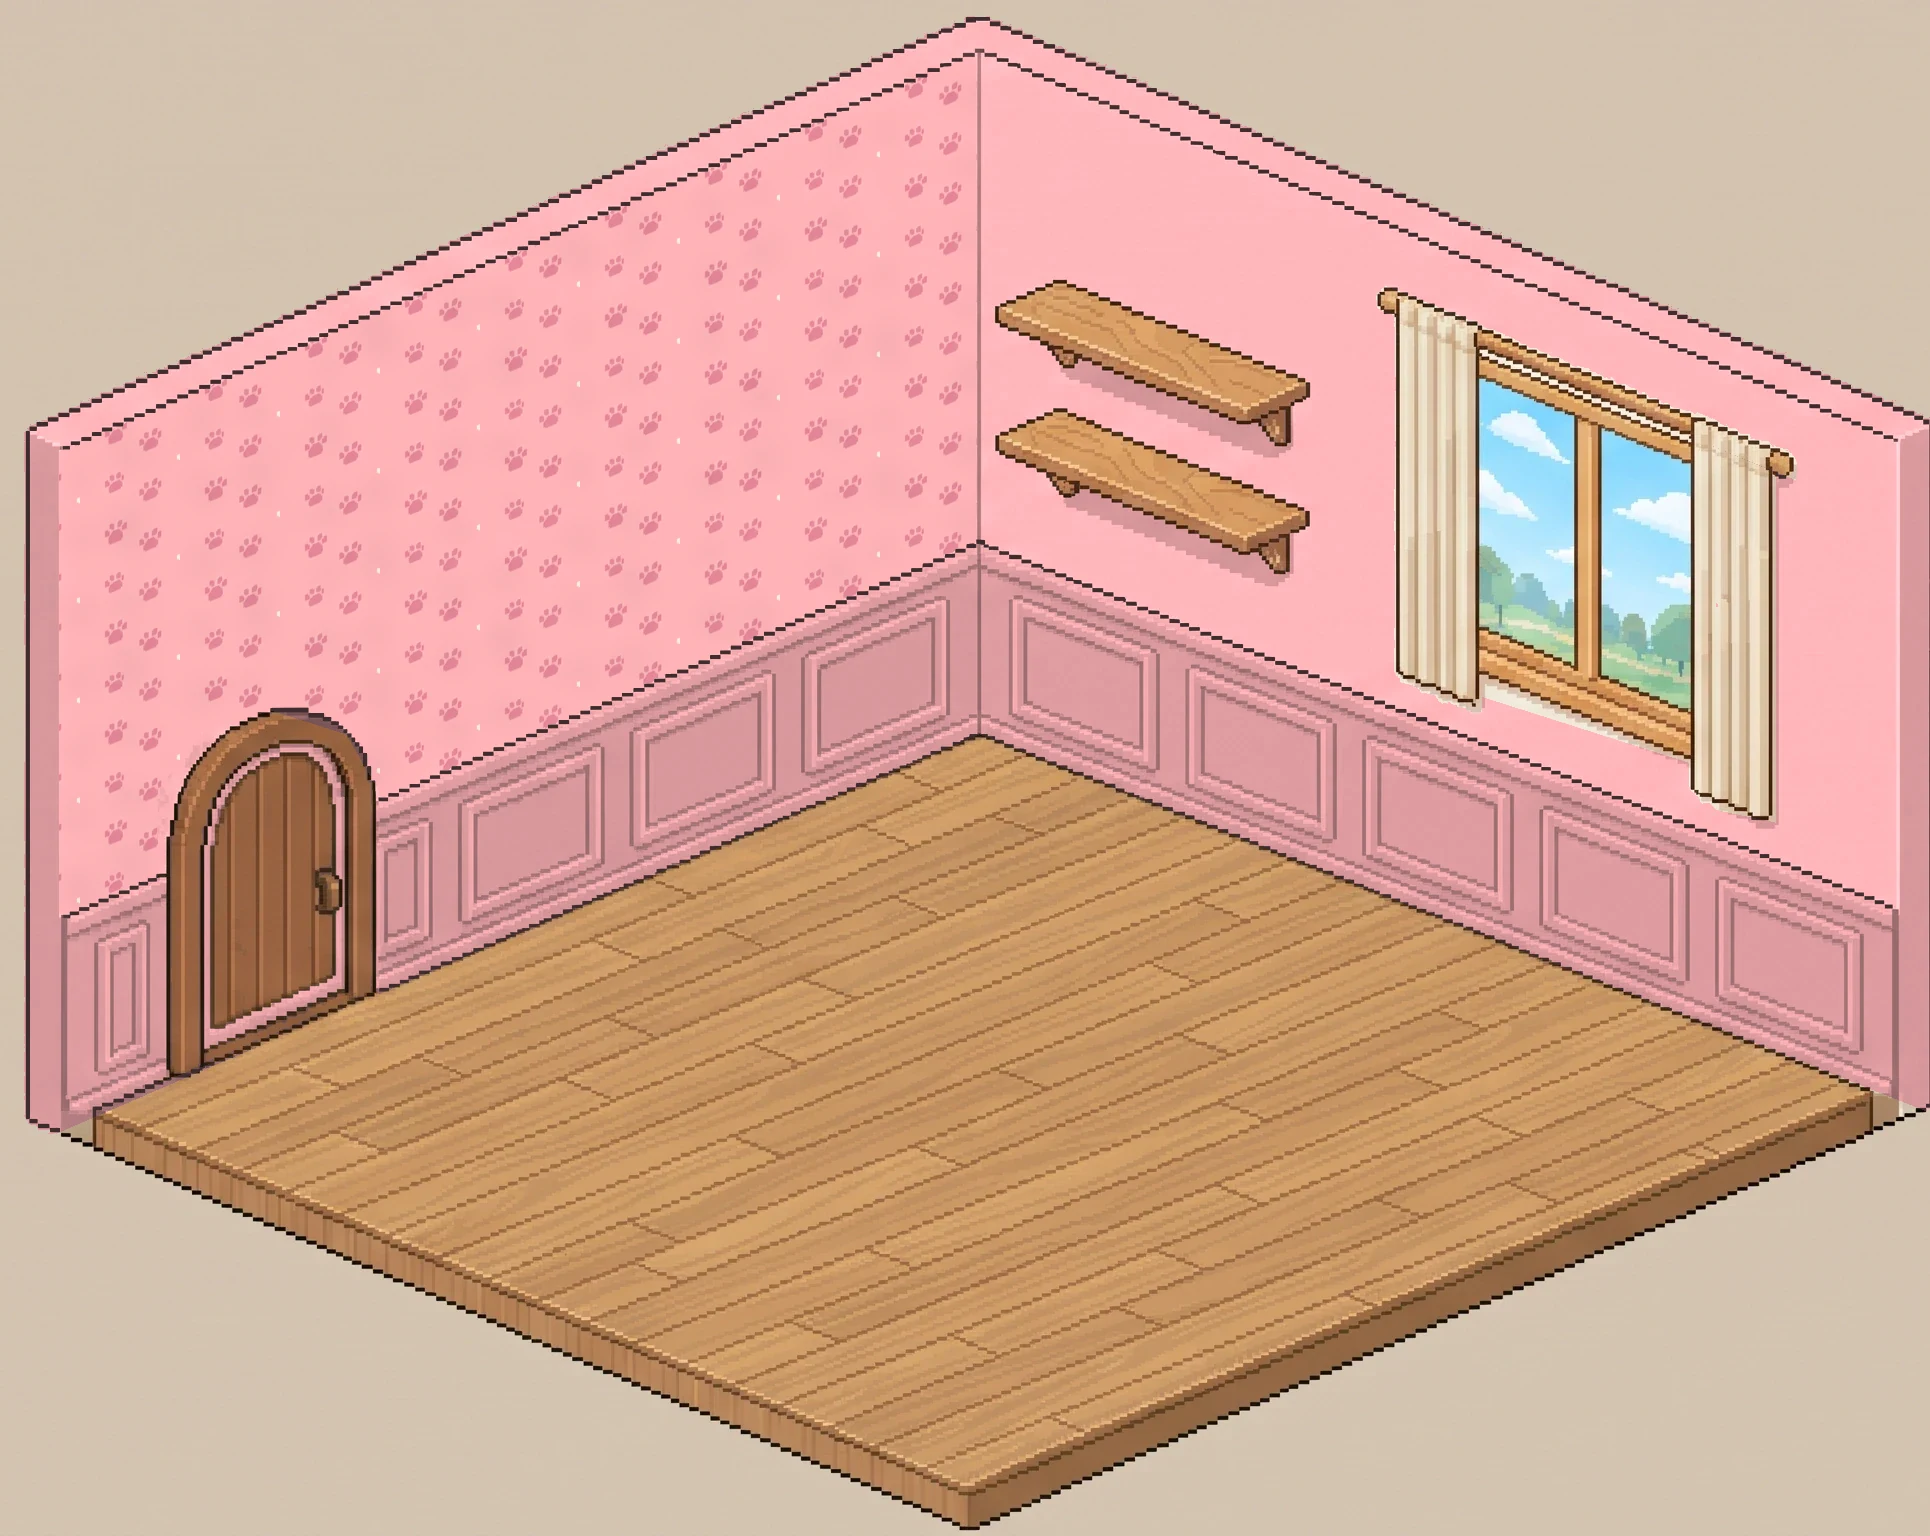
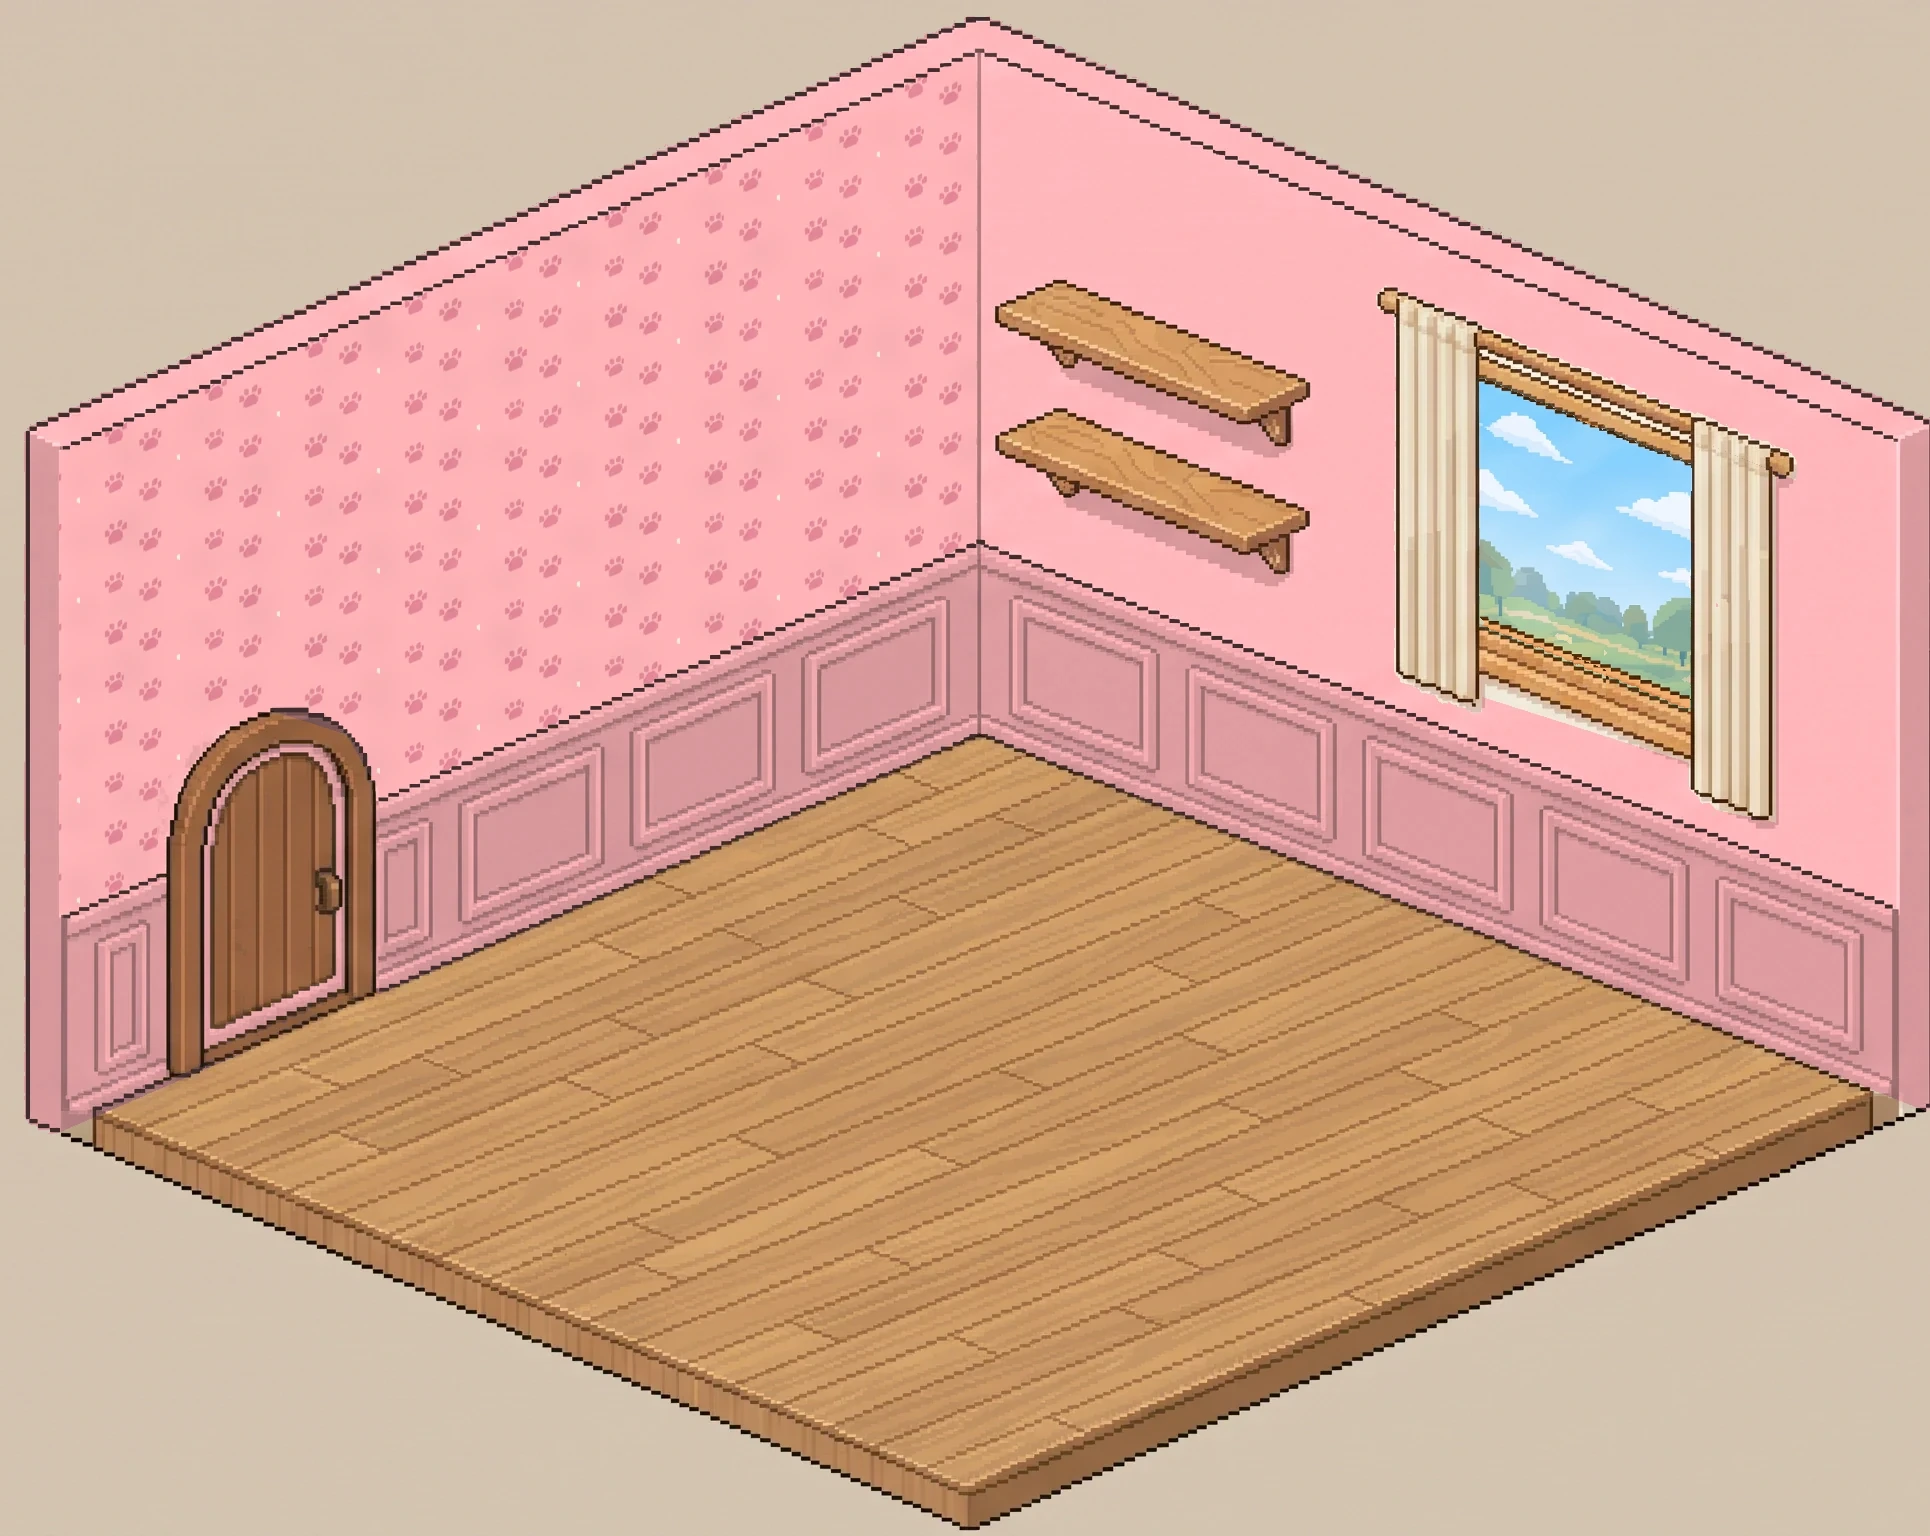
[아지트] 가운데 창살 없는 창 — 별이 창살에 안 가리게(밤 창유리 덮개·방 넷의 낮 창)
제미나이로 받은 창살 없는 창에서 창유리 속만 떼어 지금 창 자리에 맞춤(_dev/azit-window-nobar.py). 창틀·커튼·벽은 그대로.

Changed region(s): [[0.7461, 0.25, 0.8705, 0.4688]]

diff --git a/azit.html b/azit.html
@@ -517,7 +517,7 @@
   hdReady.then(function () { if (cur && cur.me) tray(); if (cur && cur.show) showList(); });   // 소품 칸 작은 그림도 원본으로
   function hd(n) { return hdPics[n] || null; }
   // 방 그림 — 벽지마다 큰 원본(받는 데 조금 걸림)과 1x 미리보기(작아서 먼저 옴 — 흐리게 먼저 보인다). 고른 벽지만 받는다
-  var roomPics = {}, roomLoading = {}, ROOM_V = { room_lilac: 2, room_pink: 2, room_night: 2 };   // 11/27 받은 벽지 원본 셋으로 다시 — 예전 그림이 캐시에 남지 않게
+  var roomPics = {}, roomLoading = {}, ROOM_V = { room: 2, room_lilac: 3, room_pink: 3, room_night: 3 };   // 11/27 받은 벽지 원본 셋으로 다시 · 같은 날 가운데 창살 없는 창(_dev/azit-window-nobar.py) — 예전 그림이 캐시에 남지 않게
   function roomPic(name) {
     if (roomPics[name]) return roomPics[name];
     if (!roomLoading[name]) {
@@ -528,7 +528,7 @@
     return null;
   }
   var winNight = null;
-  loadImg(HDI + 'window_night.webp?v=' + HD_V).then(function (im) { winNight = im; roomCache = {}; staticDirty = true; kick(); });
+  loadImg(HDI + 'window_night.webp?v=2')   // 11/27 창살 자리까지 밤하늘로 덮는 판(별이 창살에 안 가림).then(function (im) { winNight = im; roomCache = {}; staticDirty = true; kick(); });
   // 벽 소품은 그려진 벽 방향(face)과 다른 벽에 걸면 좌우로 뒤집는다
   var flipCache = {};
   function oriented(it, side) {

diff --git a/_dev/azit-window-nobar.py b/_dev/azit-window-nobar.py
@@ -1,0 +1,68 @@
+# [아지트] 가운데 창살 없는 창(2026-11-27 가르시아 "창문 창살 가운데가 별을 가리니까 없는 버전으로 만들어 줄 테니" → 제미나이 세 칸 그림)
+#
+# 받은 그림(sian-ref/window/nobar-gemini.webp — 밤 창 · 밤 벽에 낮 창 · 크림 벽에 낮 창)은 방 그림과 각도·크기가 조금 달라서 통째로 붙이지 않고,
+# 창유리 속(하늘·나무)만 떼어 지금 방 그림의 창유리 자리(창살 자리 포함)에 비스듬히(아핀 변환) 맞춰 넣는다. 창틀·커튼·벽은 원래 그림 그대로.
+#   - 밤: icons/azit-hd/window_night.webp(밤에 창유리를 덮는 그림 — 예전엔 창살 자리가 비어 있어 방 그림의 창살이 보였다)를 새로 —
+#         창유리 + 창살 자리를 받은 밤 창(1번 칸)으로 채운다.
+#   - 낮: 방 그림 넷(room·room_lilac·room_pink·room_night — 같은 창)의 창유리 + 창살 자리를 받은 낮 창(3번 칸)으로. 미리보기 -1x도 다시.
+# 쓰는 법: python3 _dev/azit-window-nobar.py   (원본은 git에 있음)
+import os
+import numpy as np
+from PIL import Image
+
+ROOT = os.path.dirname(os.path.dirname(os.path.abspath(__file__)))
+HD = os.path.join(ROOT, 'icons', 'azit-hd')
+SRC = Image.open(os.path.join(ROOT, 'sian-ref', 'window', 'nobar-gemini.webp')).convert('RGB')
+WX, WY = 1470, 350   # 창유리 덮개(230×410)의 방 그림 속 자리(azit.html WIN_BOX × 4.5)
+
+# 덮개 좌표의 창유리 네 귀퉁이(실측: 왼쪽 x 9 위 29·아래 268, 오른쪽 x 220 위 114·아래 356)
+D_TL, D_TR, D_BL = (9, 29), (220, 114), (9, 268)
+# 받은 그림에서 보이는 창유리 귀퉁이(실측 — 왼쪽 커튼 바로 옆 ~ 오른쪽 커튼 바로 앞)
+S_NIGHT = {'TL': (185, 315), 'TR': (460, 410), 'BL': (185, 658)}
+S_DAY = {'TL': (1525, 322), 'TR': (1792, 440), 'BL': (1525, 660)}
+
+def affine(src):
+    """덮개 좌표(x, y) → 받은 그림 좌표: PIL transform 계수(a, b, c, d, e, f)"""
+    (x0, y0), (x1, y1), (x2, y2) = D_TL, D_TR, D_BL
+    (u0, v0), (u1, v1), (u2, v2) = src['TL'], src['TR'], src['BL']
+    A = np.array([[x0, y0, 1], [x1, y1, 1], [x2, y2, 1]], float)
+    a, b, c = np.linalg.solve(A, [u0, u1, u2]); d, e, f = np.linalg.solve(A, [v0, v1, v2])
+    return (a, b, c, d, e, f)
+
+def glass(src):   # 받은 그림 창유리를 덮개 크기(230×410)로
+    return np.array(SRC.transform((230, 410), Image.AFFINE, affine(src), resample=Image.BICUBIC))
+
+# 채울 곳 = 예전 덮개가 덮던 창유리 + 가운데 창살 자리(열 102~133, 창유리 위·아래 선 사이)
+old = np.array(Image.open(os.path.join(HD, 'window_night.webp')).convert('RGBA'))
+mask = old[:, :, 3] > 200
+def top(x): return 29 + (114 - 29) * (x - 9) / 211.0
+def bot(x): return 268 + (356 - 268) * (x - 9) / 211.0
+for x in range(102, 134):
+    mask[int(round(top(x))) + 1:int(round(bot(x))), x] = True
+
+# 밤 덮개
+night = glass(S_NIGHT)
+out = np.zeros((410, 230, 4), np.uint8); out[:, :, :3] = night; out[:, :, 3] = np.where(mask, 255, 0)
+Image.fromarray(out, 'RGBA').save(os.path.join(HD, 'window_night.webp'), 'WEBP', lossless=True)
+
+# 낮 방 넷
+day = glass(S_DAY)
+for name in ['room', 'room_lilac', 'room_pink', 'room_night']:
+    p = os.path.join(HD, name + '.webp')
+    im = np.array(Image.open(p).convert('RGB'))
+    sub = im[WY:WY + 410, WX:WX + 230]
+    sub[mask] = day[mask]
+    # 창살 밑동(아래 창틀 위로 튀어나온 20점쯤) — 왼쪽 40점 옆 창틀(같은 기울기만큼 위)을 옮겨 와 덮는다
+    sh = int(round(40 * (356 - 268) / 211.0))
+    for x in range(100, 136):
+        b = int(round(bot(x)))
+        for y in range(b - 1, b + 27):
+            sub[y, x] = sub[y - sh, x - 40]
+    im[WY:WY + 410, WX:WX + 230] = sub
+    big = Image.fromarray(im, 'RGB'); big.save(p, 'WEBP', quality=92, method=6)
+    p1 = os.path.join(HD, name + '-1x.webp')
+    if os.path.exists(p1):
+        w1, h1 = Image.open(p1).size
+        big.resize((w1, h1), Image.LANCZOS).save(p1, 'WEBP', quality=92, method=6)
+    print(name, 'ok')
+print('window_night ok')

diff --git a/sian-ref/window/README.md b/sian-ref/window/README.md
@@ -1,0 +1,15 @@
+# [아지트] 창문 — 가운데 창살 없는 판을 받기 위한 원본 조각 (2026-11-27)
+
+가르시아: "창문 창살 가운데가 별을 가리니까 이거 없는 버전으로 만들어 줄 테니 창문 이미지만 따로 줘".
+모두 받은 방 원본과 같은 해상도(방 한 점 = 4.5픽셀) — 크기를 바꾸지 말고 그대로 고쳐 주면 같은 자리에 다시 끼운다.
+
+| 파일 | 무엇 | 원본에서 자리(x, y, 폭, 높이) |
+|---|---|---|
+| `window-day.png` | 낮 방(크림, `icons/azit-hd/room.webp`)의 창 + 커튼 | 1380, 280, 420, 530 |
+| `window-night-room.png` | 밤 방(`room_night.webp`)의 같은 자리 | 1380, 280, 420, 530 |
+| `window-night-glass.png` | 밤에 창유리 위에 덮는 밤하늘 그림(`window_night.webp`) — 별은 앱이 이 위에 그림 | 1470, 350, 230, 410 |
+| `window-night-as-app.png` | 앱에서 실제로 보이는 밤 창(밤 방 + 밤하늘 덮개) — 참고용 | 1380, 280, 420, 530 |
+
+- 가운데 세로 창살(과 그 그림자)만 빼고 나머지(창틀·커튼·창밖)는 그대로가 좋아요 — 별을 그리는 칸(창유리 가운데)이 넓어진다.
+- 밤 창은 `window-night-glass.png` 하나만 고쳐도 돼요(앱은 밤에 이 그림으로 창유리를 덮는다). 낮 창도 맞추려면 `window-day.png`(라일락·분홍 벽지 방도 같은 창 — 받으면 셋 다 같이 고침).
+- 받은 그림은 이 폴더에 `…-nobar.png`로 두면 Claude가 같은 자리에 붙여 `icons/azit-hd`를 다시 만든다.

diff --git a/PROJECT_CONTEXT.md b/PROJECT_CONTEXT.md
@@ -4082,3 +4082,10 @@ Black Han Sans 굵게 뭉개짐 0곳. 실제 폰은 아직.
   접힌 안내 둘("아지트는 어디에 있나요", "친구 방·방명록 — 서버로 가는 것", 더 보기 = 개인정보 안내). 킁킁 방명록은 접힘(머리 줄 눌러 열기).
 - `quick-set.js` `notes: [{ title, text, href }]` 옵션(접힌 안내 칸) — v5.
 
+## [아지트] 가운데 창살 없는 창 (2026-11-27)
+
+- 가르시아 "창문 창살 가운데가 별을 가리니까 없는 버전으로 만들어 줄 테니 창문 이미지만 따로 줘" → 창 조각 넷(sian-ref/window, README에 자리) → 제미나이 세 칸(밤 창·밤 벽 낮 창·크림 벽 낮 창, sian-ref/window/nobar-gemini.webp).
+- 받은 그림은 각도·크기가 달라 통째로 안 붙이고 창유리 속만 아핀 변환으로 지금 창유리 자리(+ 창살 자리 열 102~133)에 맞춤(`_dev/azit-window-nobar.py`): 밤 덮개 window_night.webp를 새로(예전엔 창살 자리가 비어
+  방 그림의 창살이 보였다), 낮 방 넷(room·lilac·pink·night)과 미리보기 -1x의 창유리도 새로, 아래 창틀 위 창살 밑동은 옆 창틀로 덮음. 창틀·커튼·벽은 원래 그대로.
+- azit.html 캐시 번호: ROOM_V room 2·나머지 3, window_night ?v=2.
+
